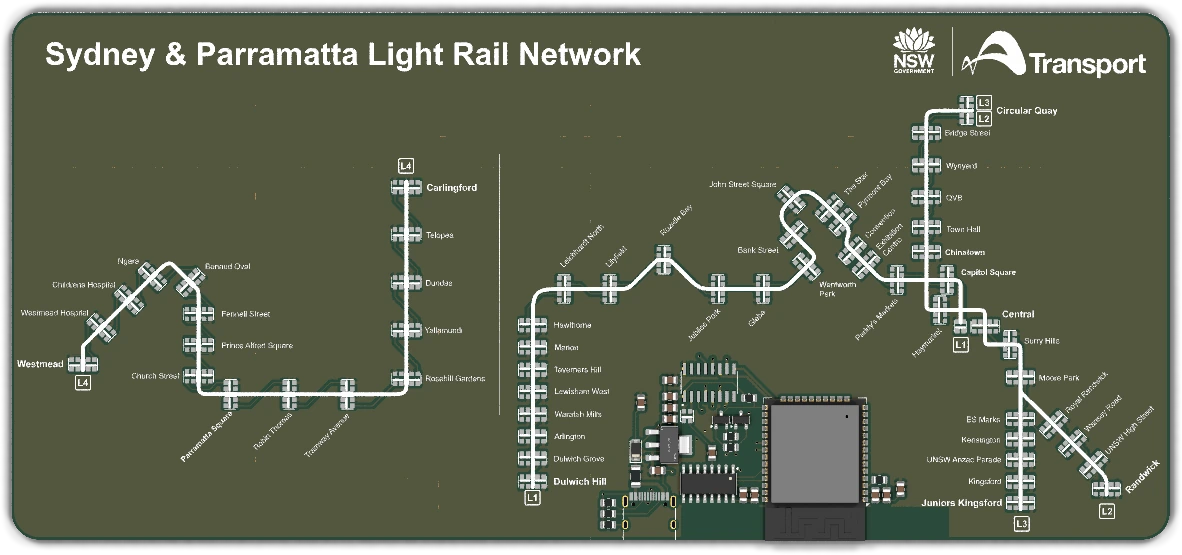
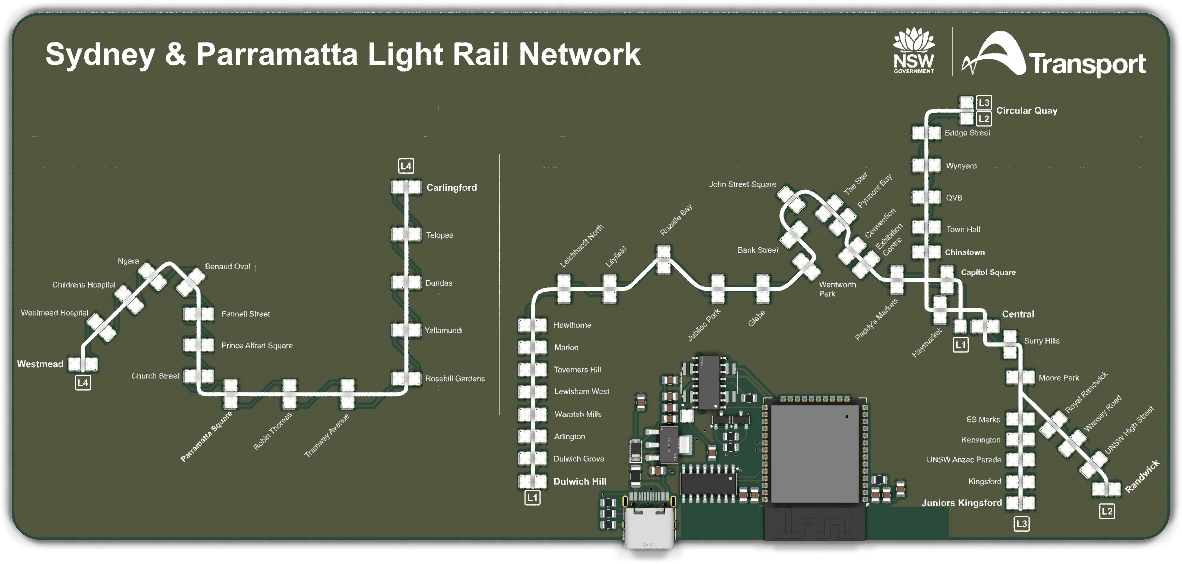
Complete TramTrace 3D assembly (#19)

diff --git a/lab/tramtrace/index.html b/lab/tramtrace/index.html
@@ -61,7 +61,7 @@
       <div class="pcb-viewport" tabindex="0" aria-label="Scrollable TramTrace board view">
         <div class="pcb-stage" data-pcb-stage>
           <div class="pcb-board-fill" aria-hidden="true"></div>
-          <img class="pcb-render" src="assets/images/interactive/tramtrace/tramtrace-board-render.webp" width="1182" height="555" alt="KiCad rendering of the assembled TramTrace circuit board">
+          <img class="pcb-render" src="assets/images/interactive/tramtrace/tramtrace-board-render.webp" width="1182" height="564" alt="KiCad rendering of the assembled TramTrace circuit board with populated LEDs, level shifter and USB-C receptacle">
           <img class="pcb-vector pcb-back-copper" src="assets/images/interactive/tramtrace/tramtrace-back-copper.svg" alt="">
           <img class="pcb-vector pcb-front-copper" src="assets/images/interactive/tramtrace/tramtrace-front-copper.svg" alt="">
           <img class="pcb-vector pcb-front-mask" src="assets/images/interactive/tramtrace/tramtrace-front-mask.svg" alt="">

diff --git a/assets/tramtrace-inspector.css b/assets/tramtrace-inspector.css
@@ -224,6 +224,9 @@ html {
   left: 2.5429%;
   top: 0.9984%;
   width: 92.8764%;
+}
+
+.pcb-board-fill {
   height: 85.045%;
 }
 
@@ -236,6 +239,7 @@ html {
 
 .pcb-render {
   z-index: 2;
+  height: 86.424%;
   object-fit: fill;
   opacity: 1;
 }
